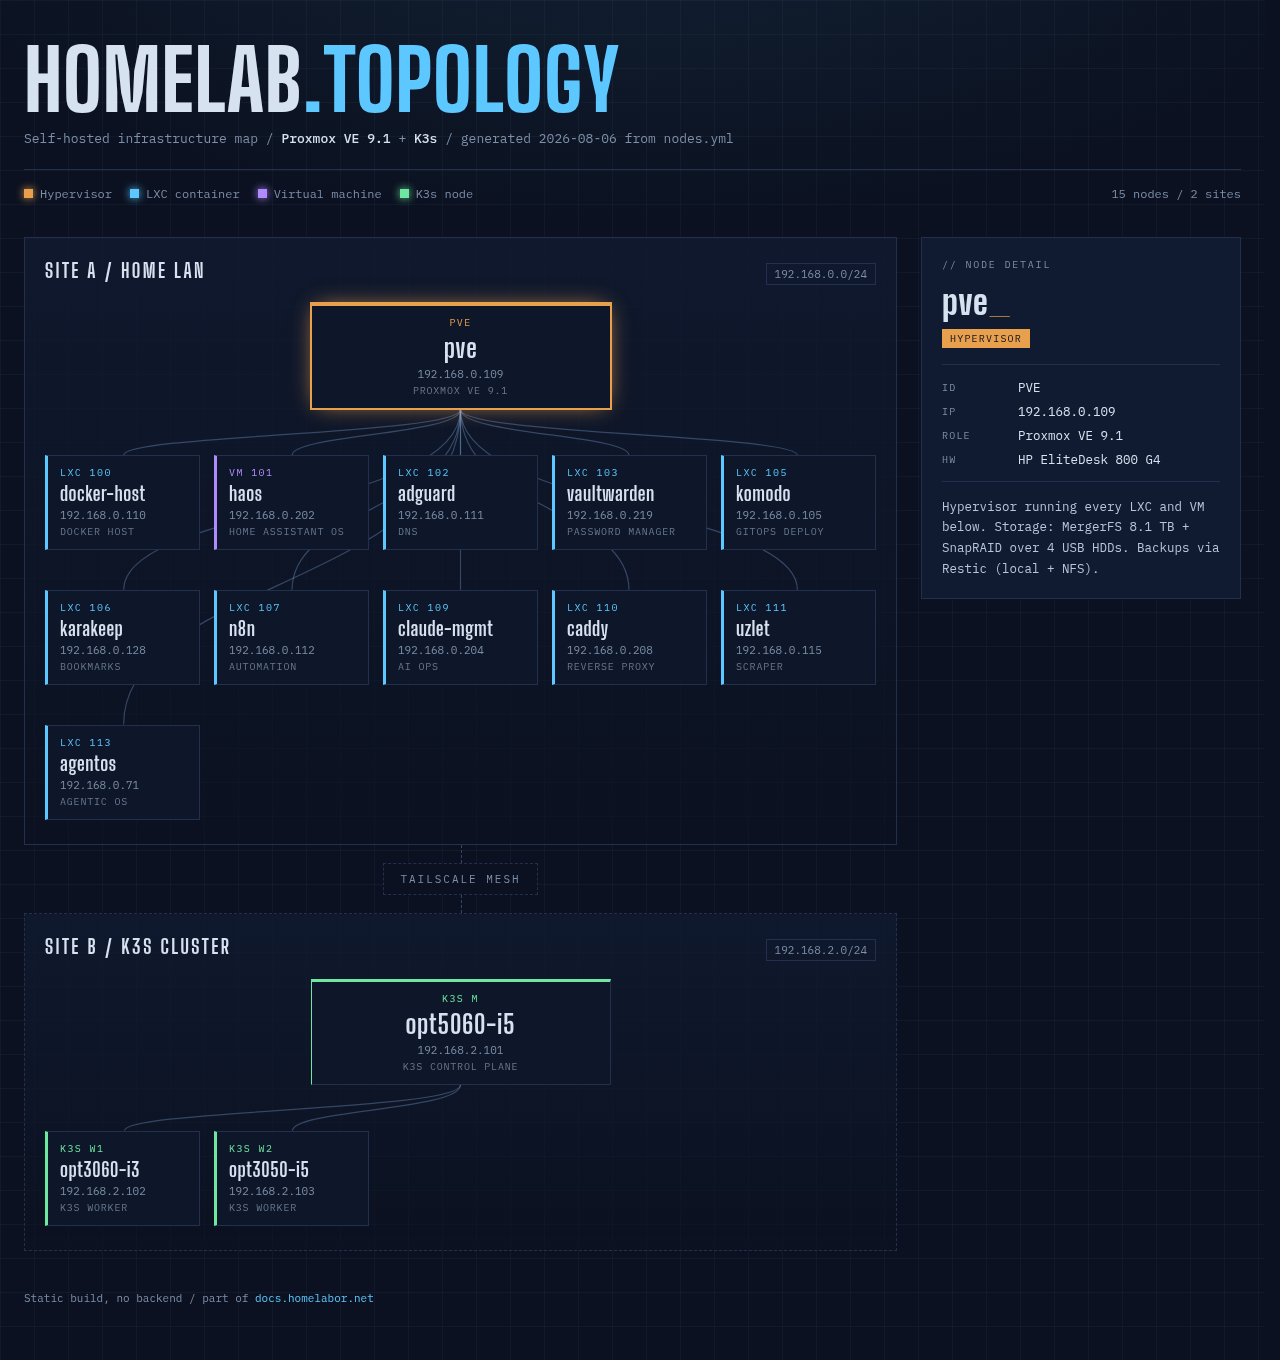
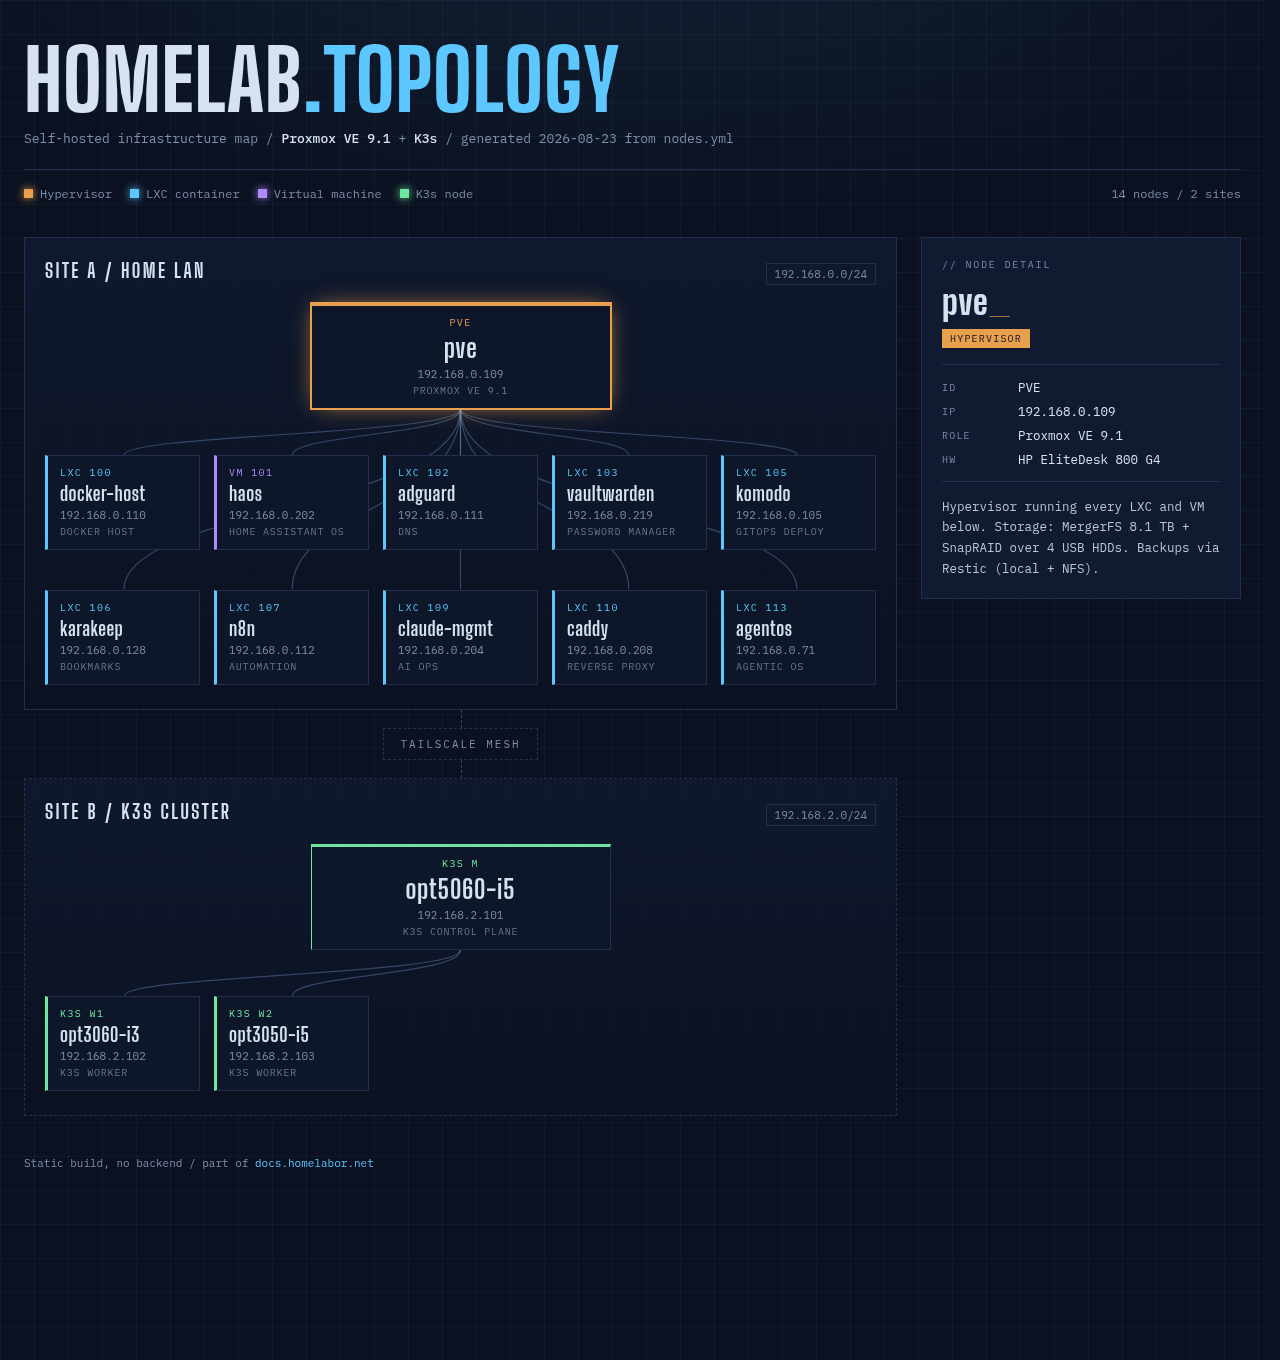
chore: az uzlet projekt maradek hivatkozasainak eltavolitasa
Az LXC 111 uzlet mar nem letezik, igy:
- topology/nodes.yml: az LXC 111 node torolve, ujraepitve (14 node)
- landing: topology.png/webp + og.png ujrarenderelve, a szoveges
  node-szam 15-rol 14-re, tiz konteneterol kilencre javitva
- docs/assets/topology.png szinkronban a landing PNG-vel
- AGENTS.md + CLAUDE.md infra-tabla: az LXC 110 sor onalloan
- scripts/uzlet-handover-cleanup.sh torolve (az atadas 2026-05-26-en lezarult)
- scripts/prompt-analysis.py peldaja furbify-ra cserelve
- docs/hosts/agentos.md es claude-mgmt.md: elavult uzlet-utak

Mellekesen: a Komodo setup doksiban a 'pct exec 105 -- hostname -I'
peldakimenete 192.168.0.115 volt 192.168.0.105 helyett.

A docs/superpowers/ alatti datumozott tervek es specek erintetlenek:
kizarva a publikalt oldalbol (exclude_docs), es tortenelmi feljegyzesek.

diff --git a/compose/vps/landing/src/topology/index.html b/compose/vps/landing/src/topology/index.html
@@ -174,10 +174,10 @@ footer a:hover { text-decoration: underline; }
 <div class="frame">
   <header class="top">
     <h1 class="brand">Homelab<em>.topology</em></h1>
-    <p class="tagline">Self-hosted infrastructure map / <b>Proxmox VE 9.1</b> + <b>K3s</b> / generated 2026-08-06 from nodes.yml</p>
+    <p class="tagline">Self-hosted infrastructure map / <b>Proxmox VE 9.1</b> + <b>K3s</b> / generated 2026-08-23 from nodes.yml</p>
     <div class="meta-row">
       <ul class="legend"><li><span class="dot" style="--c:#e8a04c"></span>Hypervisor</li><li><span class="dot" style="--c:#5cc8ff"></span>LXC container</li><li><span class="dot" style="--c:#b18aff"></span>Virtual machine</li><li><span class="dot" style="--c:#6ee7a0"></span>K3s node</li></ul>
-      <span class="stats">15 nodes / 2 sites</span>
+      <span class="stats">14 nodes / 2 sites</span>
     </div>
   </header>
   <div class="wrap">
@@ -248,12 +248,6 @@ footer a:hover { text-decoration: underline; }
     <span class="nip">192.168.0.208</span>
     <span class="nrole">Reverse proxy</span>
   </button>
-<button class="card" type="button" data-node="uzlet" style="--c:#5cc8ff">
-    <span class="badge">LXC 111</span>
-    <span class="nname">uzlet</span>
-    <span class="nip">192.168.0.115</span>
-    <span class="nrole">Scraper</span>
-  </button>
 <button class="card" type="button" data-node="agentos" style="--c:#5cc8ff">
     <span class="badge">LXC 113</span>
     <span class="nname">agentos</span>
@@ -305,7 +299,7 @@ footer a:hover { text-decoration: underline; }
   </div>
 </div>
 <script>
-var DATA = {"sites":[{"id":"lan","label":"SITE A / HOME LAN","subnet":"192.168.0.0/24"},{"id":"remote","label":"SITE B / K3S CLUSTER","subnet":"192.168.2.0/24","link":"Tailscale mesh"}],"kinds":{"hypervisor":{"label":"Hypervisor","color":"#e8a04c"},"lxc":{"label":"LXC container","color":"#5cc8ff"},"vm":{"label":"Virtual machine","color":"#b18aff"},"k3s":{"label":"K3s node","color":"#6ee7a0"}},"nodes":[{"badge":"PVE","name":"pve","site":"lan","head":true,"kind":"hypervisor","ip":"192.168.0.109","role":"Proxmox VE 9.1","hw":"HP EliteDesk 800 G4","detail":"Hypervisor running every LXC and VM below. Storage: MergerFS 8.1 TB + SnapRAID over 4 USB HDDs. Backups via Restic (local + NFS)."},{"badge":"LXC 100","name":"docker-host","site":"lan","kind":"lxc","ip":"192.168.0.110","role":"Docker host","detail":"22 Docker Compose stacks: Jellyfin + *arr media stack, Immich, Syncthing, static sites and more. Deployed from git via Komodo GitOps."},{"badge":"VM 101","name":"haos","site":"lan","kind":"vm","ip":"192.168.0.202","role":"Home Assistant OS","detail":"Smart home hub with Zigbee2MQTT and automations."},{"badge":"LXC 102","name":"adguard","site":"lan","kind":"lxc","ip":"192.168.0.111","role":"DNS","detail":"AdGuard Home - LAN-wide DNS with ad blocking and *.lan rewrites pointing at the Caddy proxy."},{"badge":"LXC 103","name":"vaultwarden","site":"lan","kind":"lxc","ip":"192.168.0.219","role":"Password manager","detail":"Vaultwarden. Alpine community-script container, managed via pct exec only - no SSH."},{"badge":"LXC 105","name":"komodo","site":"lan","kind":"lxc","ip":"192.168.0.105","role":"GitOps deploy","detail":"Komodo (port 9120) - pulls this repo and deploys the Docker stacks on LXC 100."},{"badge":"LXC 106","name":"karakeep","site":"lan","kind":"lxc","ip":"192.168.0.128","role":"Bookmarks","detail":"Karakeep bookmark manager with AI tagging backed by Ollama."},{"badge":"LXC 107","name":"n8n","site":"lan","kind":"lxc","ip":"192.168.0.112","role":"Automation","detail":"n8n workflow automation."},{"badge":"LXC 109","name":"claude-mgmt","site":"lan","kind":"lxc","ip":"192.168.0.204","role":"AI ops","detail":"Claude Code management node - infrastructure-as-code lives here. This page was built from this machine."},{"badge":"LXC 110","name":"caddy","site":"lan","kind":"lxc","ip":"192.168.0.208","role":"Reverse proxy","detail":"Caddy - *.lan reverse proxy with local mkcert TLS for every internal service."},{"badge":"LXC 111","name":"uzlet","site":"lan","kind":"lxc","ip":"192.168.0.115","role":"Scraper","detail":"Business data scraper."},{"badge":"LXC 113","name":"agentos","site":"lan","kind":"lxc","ip":"192.168.0.71","role":"Agentic OS","detail":"Hermes + Odysseus autonomous agent stack - delegation target for mechanical subtasks."},{"badge":"K3S M","name":"opt5060-i5","site":"remote","head":true,"kind":"k3s","ip":"192.168.2.101","role":"K3s control plane","hw":"Dell OptiPlex 5060, i5","detail":"Master node of the 3-node K3s cluster at a separate location. Reached over Tailscale; kubectl from LXC 109."},{"badge":"K3S W1","name":"opt3060-i3","site":"remote","kind":"k3s","ip":"192.168.2.102","role":"K3s worker","hw":"Dell OptiPlex 3060, i3","detail":"Worker node. Longhorn distributed storage planned."},{"badge":"K3S W2","name":"opt3050-i5","site":"remote","kind":"k3s","ip":"192.168.2.103","role":"K3s worker","hw":"Dell OptiPlex 3050, i5","detail":"Worker node. Prometheus + Grafana monitoring planned."}]};
+var DATA = {"sites":[{"id":"lan","label":"SITE A / HOME LAN","subnet":"192.168.0.0/24"},{"id":"remote","label":"SITE B / K3S CLUSTER","subnet":"192.168.2.0/24","link":"Tailscale mesh"}],"kinds":{"hypervisor":{"label":"Hypervisor","color":"#e8a04c"},"lxc":{"label":"LXC container","color":"#5cc8ff"},"vm":{"label":"Virtual machine","color":"#b18aff"},"k3s":{"label":"K3s node","color":"#6ee7a0"}},"nodes":[{"badge":"PVE","name":"pve","site":"lan","head":true,"kind":"hypervisor","ip":"192.168.0.109","role":"Proxmox VE 9.1","hw":"HP EliteDesk 800 G4","detail":"Hypervisor running every LXC and VM below. Storage: MergerFS 8.1 TB + SnapRAID over 4 USB HDDs. Backups via Restic (local + NFS)."},{"badge":"LXC 100","name":"docker-host","site":"lan","kind":"lxc","ip":"192.168.0.110","role":"Docker host","detail":"22 Docker Compose stacks: Jellyfin + *arr media stack, Immich, Syncthing, static sites and more. Deployed from git via Komodo GitOps."},{"badge":"VM 101","name":"haos","site":"lan","kind":"vm","ip":"192.168.0.202","role":"Home Assistant OS","detail":"Smart home hub with Zigbee2MQTT and automations."},{"badge":"LXC 102","name":"adguard","site":"lan","kind":"lxc","ip":"192.168.0.111","role":"DNS","detail":"AdGuard Home - LAN-wide DNS with ad blocking and *.lan rewrites pointing at the Caddy proxy."},{"badge":"LXC 103","name":"vaultwarden","site":"lan","kind":"lxc","ip":"192.168.0.219","role":"Password manager","detail":"Vaultwarden. Alpine community-script container, managed via pct exec only - no SSH."},{"badge":"LXC 105","name":"komodo","site":"lan","kind":"lxc","ip":"192.168.0.105","role":"GitOps deploy","detail":"Komodo (port 9120) - pulls this repo and deploys the Docker stacks on LXC 100."},{"badge":"LXC 106","name":"karakeep","site":"lan","kind":"lxc","ip":"192.168.0.128","role":"Bookmarks","detail":"Karakeep bookmark manager with AI tagging backed by Ollama."},{"badge":"LXC 107","name":"n8n","site":"lan","kind":"lxc","ip":"192.168.0.112","role":"Automation","detail":"n8n workflow automation."},{"badge":"LXC 109","name":"claude-mgmt","site":"lan","kind":"lxc","ip":"192.168.0.204","role":"AI ops","detail":"Claude Code management node - infrastructure-as-code lives here. This page was built from this machine."},{"badge":"LXC 110","name":"caddy","site":"lan","kind":"lxc","ip":"192.168.0.208","role":"Reverse proxy","detail":"Caddy - *.lan reverse proxy with local mkcert TLS for every internal service."},{"badge":"LXC 113","name":"agentos","site":"lan","kind":"lxc","ip":"192.168.0.71","role":"Agentic OS","detail":"Hermes + Odysseus autonomous agent stack - delegation target for mechanical subtasks."},{"badge":"K3S M","name":"opt5060-i5","site":"remote","head":true,"kind":"k3s","ip":"192.168.2.101","role":"K3s control plane","hw":"Dell OptiPlex 5060, i5","detail":"Master node of the 3-node K3s cluster at a separate location. Reached over Tailscale; kubectl from LXC 109."},{"badge":"K3S W1","name":"opt3060-i3","site":"remote","kind":"k3s","ip":"192.168.2.102","role":"K3s worker","hw":"Dell OptiPlex 3060, i3","detail":"Worker node. Longhorn distributed storage planned."},{"badge":"K3S W2","name":"opt3050-i5","site":"remote","kind":"k3s","ip":"192.168.2.103","role":"K3s worker","hw":"Dell OptiPlex 3050, i5","detail":"Worker node. Prometheus + Grafana monitoring planned."}]};
 var byName = {};
 DATA.nodes.forEach(function (n) { byName[n.name] = n; });
 

diff --git a/compose/vps/landing/src/index.html b/compose/vps/landing/src/index.html
@@ -24,7 +24,7 @@
 <meta property="og:image:width" content="1200">
 <meta property="og:image:height" content="630">
 <meta property="og:image:type" content="image/png">
-<meta property="og:image:alt" content="A homelab run like production. Norbert Csicsay, homelabor.net. Fifteen nodes across two sites.">
+<meta property="og:image:alt" content="A homelab run like production. Norbert Csicsay, homelabor.net. Fourteen nodes across two sites.">
 <meta name="twitter:card" content="summary_large_image">
 <link rel="icon" href="favicon.svg" type="image/svg+xml">
 <link rel="stylesheet" href="style.css">
@@ -120,8 +120,8 @@
           </a>
         </div>
         <figcaption>
-          The Proxmox host with its ten containers and one virtual machine, plus the
-          three K3s nodes at the second site: fifteen nodes over two subnets. The
+          The Proxmox host with its nine containers and one virtual machine, plus the
+          three K3s nodes at the second site: fourteen nodes over two subnets. The
           Hetzner VPS serving this page and the desktop that holds the backup mirror
           are not on it. Every box is generated from one YAML file, so adding a host
           is a data edit rather than a redraw, but the rebuild is a deliberate step

diff --git a/compose/vps/landing/og.html b/compose/vps/landing/og.html
@@ -220,7 +220,7 @@
     </div>
     <div class="stats">
       <div class="stat">
-        <span class="figure">15</span>
+        <span class="figure">14</span>
         <span class="label">Nodes</span>
       </div>
       <div class="stat">

diff --git a/scripts/prompt-analysis.py b/scripts/prompt-analysis.py
@@ -9,7 +9,7 @@ LLM pass over the emitted corpus.
 Usage:
   ./prompt-analysis.py                        # all projects
   ./prompt-analysis.py -p homelab             # one project
-  ./prompt-analysis.py -p homelab -p uzlet    # several
+  ./prompt-analysis.py -p homelab -p furbify  # several
   ./prompt-analysis.py --since 2026-06-01 --sample 80 -o /tmp/report.md
 """
 

diff --git a/docs/hosts/agentos.md b/docs/hosts/agentos.md
@@ -41,7 +41,7 @@
 - **Cron jobs snapshot their provider/model at creation time and do NOT follow later changes to the global default** - by design, so an unattended job can't silently start spending on a different (possibly paid) model. After the swap, the existing `homelab-digest-review` job would have skipped every run and alerted instead of running, since it still pointed at the old Ollama snapshot. Fixed by removing and recreating the job so it re-snapshots the new default (`hermes cron remove` + `hermes cron create` with identical parameters). No CLI flag exists in this Hermes version to re-pin a job's provider/model in place.
 - **Found an upstream bug while testing:** an invalid `GEMINI_API_KEY` returns Gemini HTTP 400 (`INVALID_ARGUMENT: API key not valid`), which is **not** in Hermes' fallback-trigger list (429/500/502/503/401/403/404 only) - so a bad/revoked key does not fail over to Ollama, it crashes the session instead. Worse, the crash itself is a secondary bug: Hermes' own error-summary code tries to read `response.text` on a streaming httpx response that was never `.read()`'d, so the real "API key not valid" message never reaches the user - only a confusing `httpx.ResponseNotRead: Attempted to access streaming response content` shows up. Reproduced and confirmed via `~/.hermes/logs/errors.log`; not filed upstream yet. **Practical implication: if the Gemini key ever expires/gets revoked, Hermes will NOT quietly fall back to Ollama - it'll error out.** Worth an occasional manual check that the key is still valid.
 
-**Reverse direction - Claude Code (LXC 109/111, `/root/homelab` or `/root/uzlet`) offloading to Hermes:** needs no extra setup beyond the existing `ssh agentos` root access. For simple, mechanical subtasks (log/error summaries, boilerplate, one-off lookups), run `ssh agentos "hermes -t <toolset> -z '<task>'"`. Two things matter for correct results:
+**Reverse direction - Claude Code (LXC 109, `/root/homelab`) offloading to Hermes:** needs no extra setup beyond the existing `ssh agentos` root access. For simple, mechanical subtasks (log/error summaries, boilerplate, one-off lookups), run `ssh agentos "hermes -t <toolset> -z '<task>'"`. Two things matter for correct results:
 - **Always pin an unrelated toolset with `-t`** (e.g. `-t vision`). Without it, Hermes runs with its full default toolset (`file`, `terminal`, `code_execution`, ...) and will actually try to write files or run commands on agentos' own filesystem instead of just answering in text - confirmed even `-t ''` doesn't suppress this.
 - **For code-fix drafts specifically, override the model with `-m qwen2.5-coder:7b`** instead of the default `qwen3:8b`, and ask for the corrected function/snippet directly rather than a unified diff. Testing (2026-07-16, two synthetic bug-fix cases) found both models produced *broken* diffs when asked for unified-diff output (bad hunk line-accounting, a stray leaked `qwen3` reasoning token) but both produced *correct* code when asked for the plain corrected snippet instead - diff bookkeeping, not code quality, was the actual failure mode. qwen2.5-coder:7b matched qwen3:8b on correctness and was ~18% faster in this role.
 - This offload is a token-savings measure only for genuinely trivial, well-bounded work - the output must still be reviewed and applied by hand, never trusted or applied verbatim.

diff --git a/docs/hosts/claude-mgmt.md b/docs/hosts/claude-mgmt.md
@@ -44,7 +44,7 @@ Docker container `code-server` (image `lscr.io/linuxserver/code-server`), compos
 - **Bound to Tailscale-only:** `100.98.146.14:8443` - not reachable from LAN or public internet, only via Tailscale mesh
 - **HTTPS via Tailscale Serve:** `tailscale serve --bg 8443` proxies `https://claude-mgmt.tailc6abe2.ts.net/` -> `http://127.0.0.1:8443`, giving a real Let's Encrypt cert (Tailscale HTTPS certs feature, not Funnel - stays tailnet-only). Plain `http://100.98.146.14:8443` still works but triggers a browser insecure-context warning (clipboard/service worker APIs degraded)
 - **Password:** set via Komodo Stack Environment (`CODE_SERVER_PASSWORD`), not in the compose file or git
-- **Workspace:** `/root` mounted whole at `/config/workspace/root` (single parent bind mount - covers `homelab`, `uzlet`, `learning`, `youtube`; standard practice over per-project mounts, since Docker can't merge multiple host dirs into one path anyway). Default editor workspace opens at `/config/workspace/root/homelab`
+- **Workspace:** `/root` mounted whole at `/config/workspace/root` (single parent bind mount - covers every project directory under `/root`; standard practice over per-project mounts, since Docker can't merge multiple host dirs into one path anyway). Default editor workspace opens at `/config/workspace/root/homelab`
 - **Why Docker over native install:** chosen for consistency with the homelab's GitOps/IaC approach (auto-update via Komodo like every other stack) despite the extra Docker+Periphery layer for a single container - deliberate tradeoff, not to be "simplified" back to a native install
 - Access: browser to `https://claude-mgmt.tailc6abe2.ts.net/` while connected to Tailscale
 - **Survives a power cut:** on boot Docker used to reach the port bind before `tailscale0` had its address, and the container died with `failed to bind host port 100.98.146.14:8443/tcp: cannot assign requested address` (exit 255, `unless-stopped` gave up after its retries). `/etc/sysctl.d/99-nonlocal-bind.conf` sets `net.ipv4.ip_nonlocal_bind = 1` so the bind succeeds before the interface is ready. Applied 2026-08-20 after the storm outage

diff --git a/AGENTS.md b/AGENTS.md
@@ -26,7 +26,7 @@ Infrastructure-as-code for a self-hosted homelab on Proxmox VE 9.1: Docker Compo
 | LXC 105 komodo | 192.168.0.105 | GitOps deploy, port 9120 (Alpine) |
 | LXC 106 karakeep / 107 n8n | .128 / .112 | apps |
 | LXC 109 claude-mgmt | 192.168.0.204 | this machine, tmux persistent `claude` session, code-server (Tailscale-only, :8443) |
-| LXC 110 caddy / 111 uzlet | .208 / .115 | proxy / scraper |
+| LXC 110 caddy | 192.168.0.208 | Caddy reverse proxy (Alpine) |
 | LXC 113 agentos | 192.168.0.71 | Hermes + Odysseus agentic OS |
 
 Storage: MergerFS 8.1TB + SnapRAID (4 USB HDDs). Remote: Tailscale (private) + Pangolin on Hetzner VPS (public). Backups: Restic (local + NFS). K3s: 3x Dell OptiPlex (192.168.2.x, separate location, kubectl from this LXC).

diff --git a/docs/proxmox/16_Komodo_complete_setup.md b/docs/proxmox/16_Komodo_complete_setup.md
@@ -128,7 +128,7 @@ systemctl restart periphery
 ```bash
 # On Proxmox host
 pct exec 105 -- hostname -I
-# Example output: 192.168.0.115
+# Example output: 192.168.0.105
 ```
 
 ### In Komodo UI
